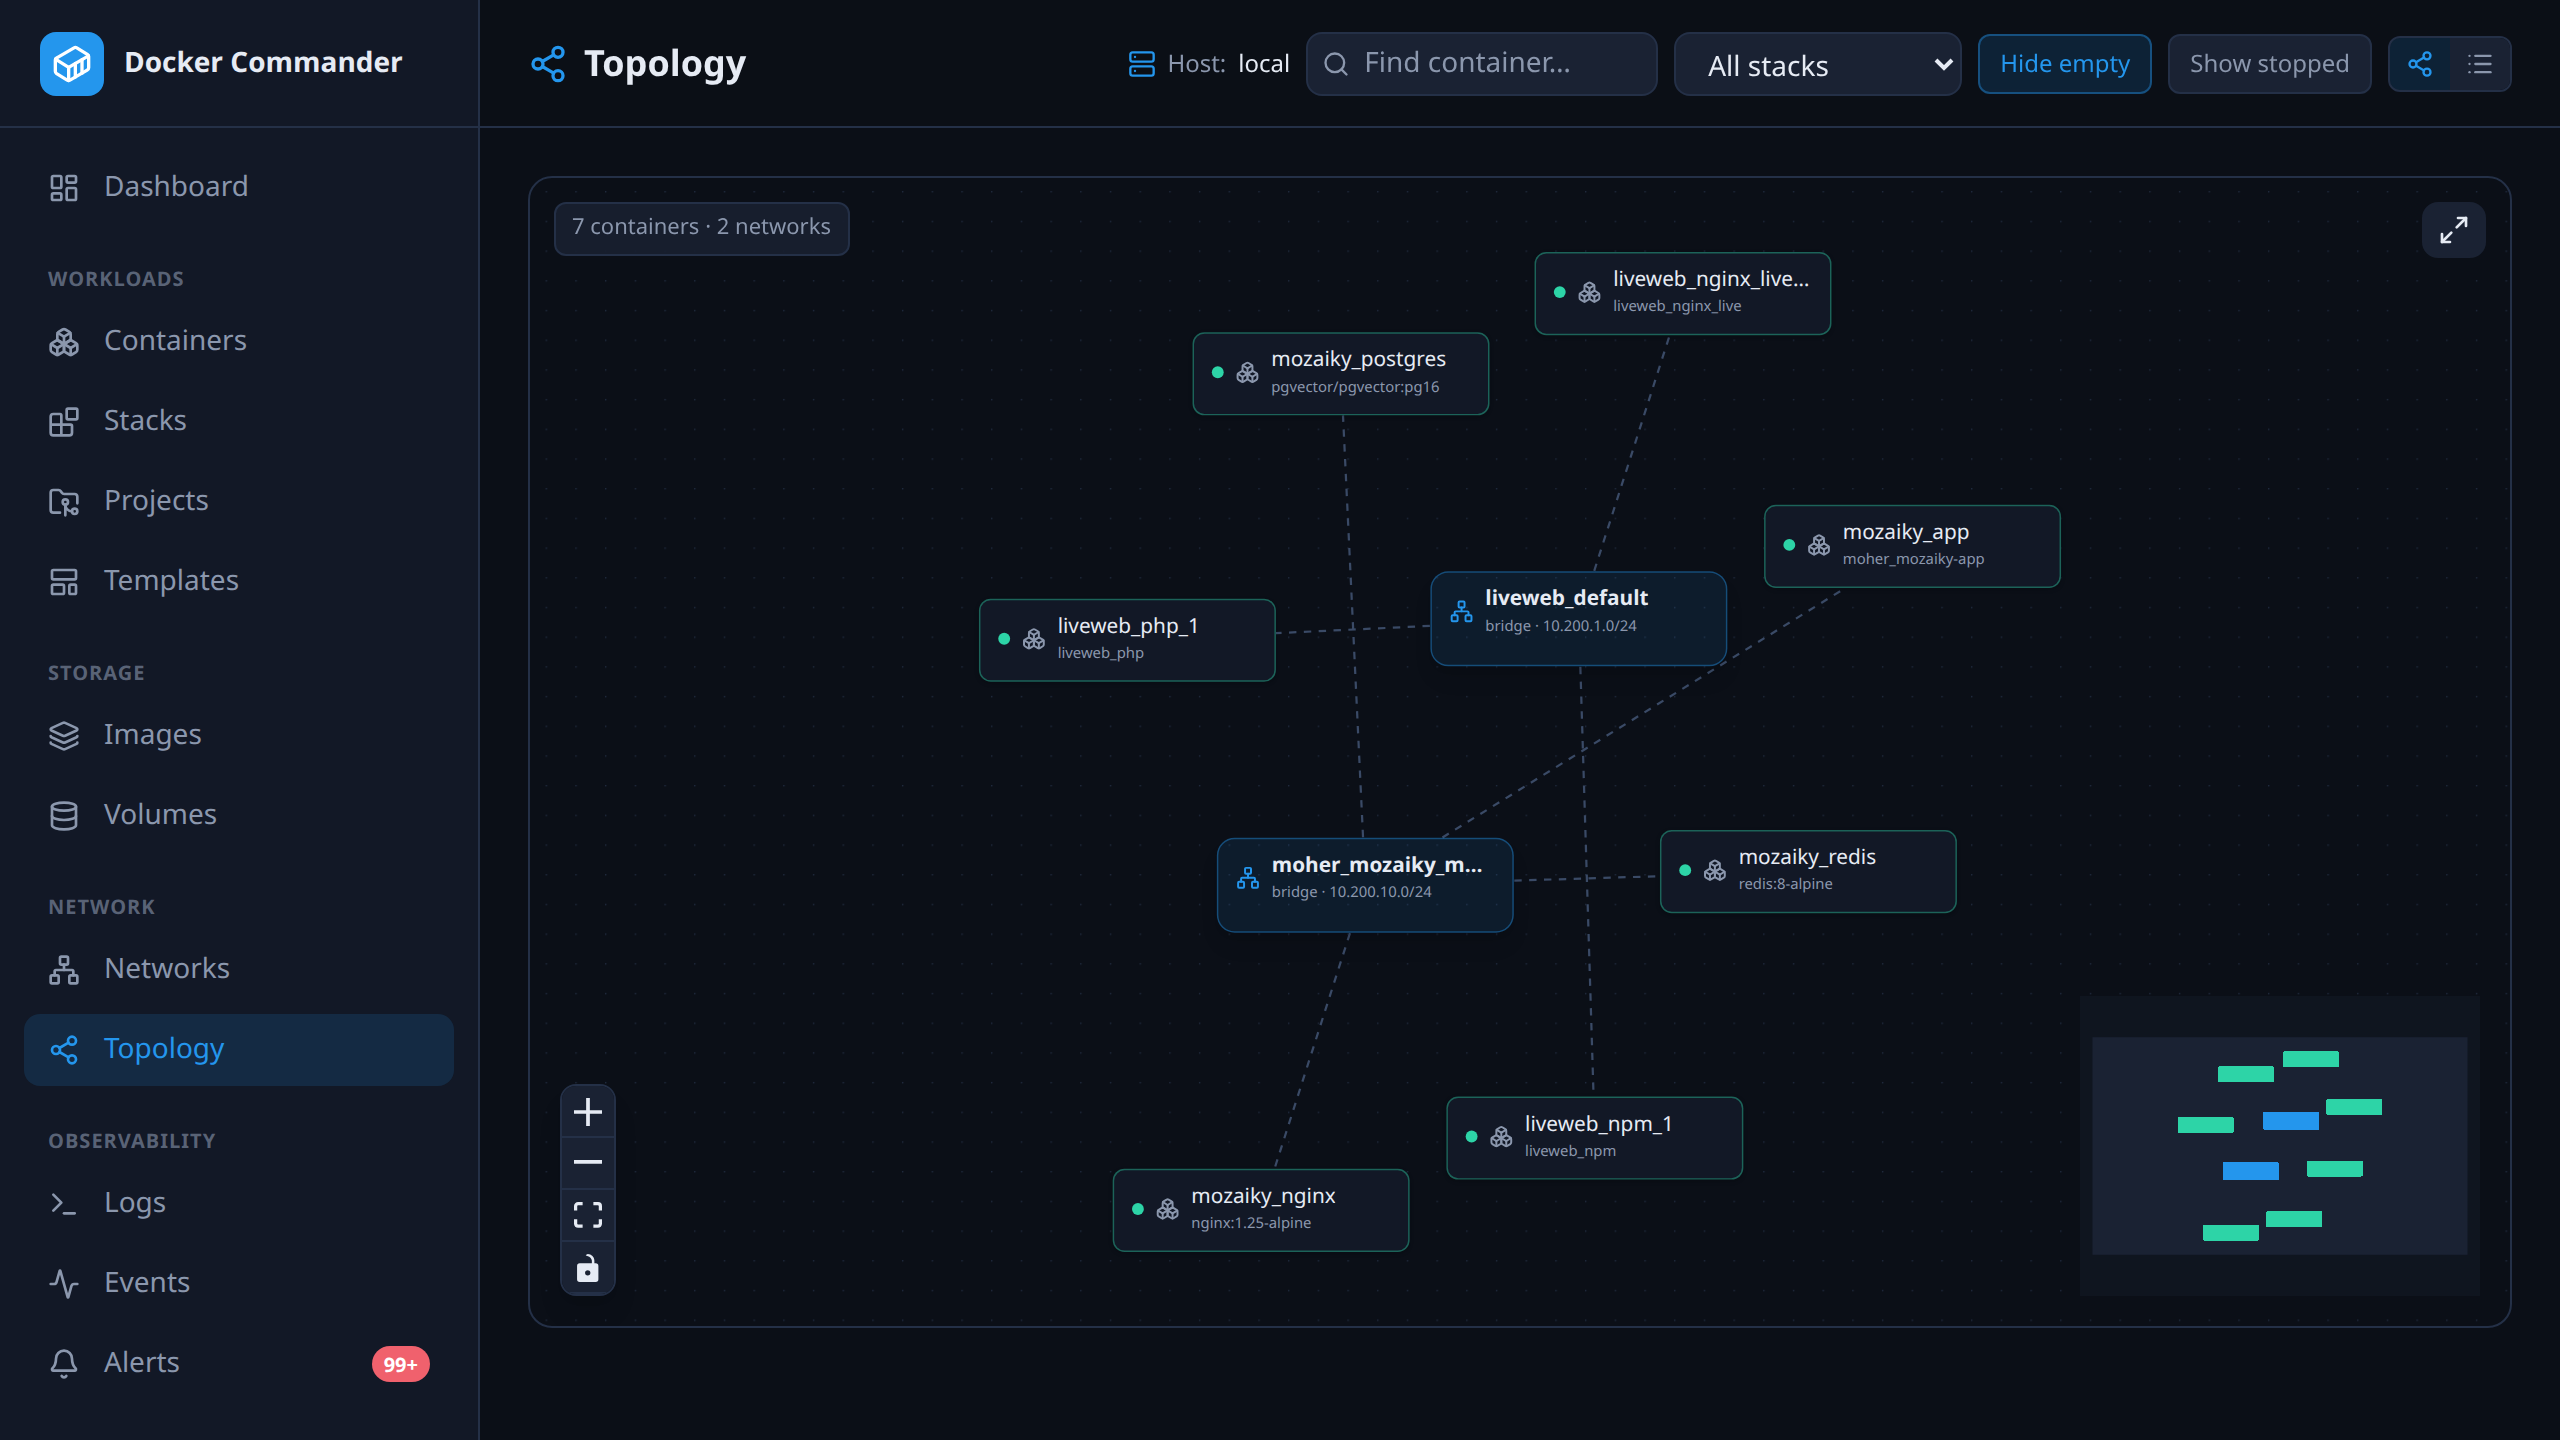
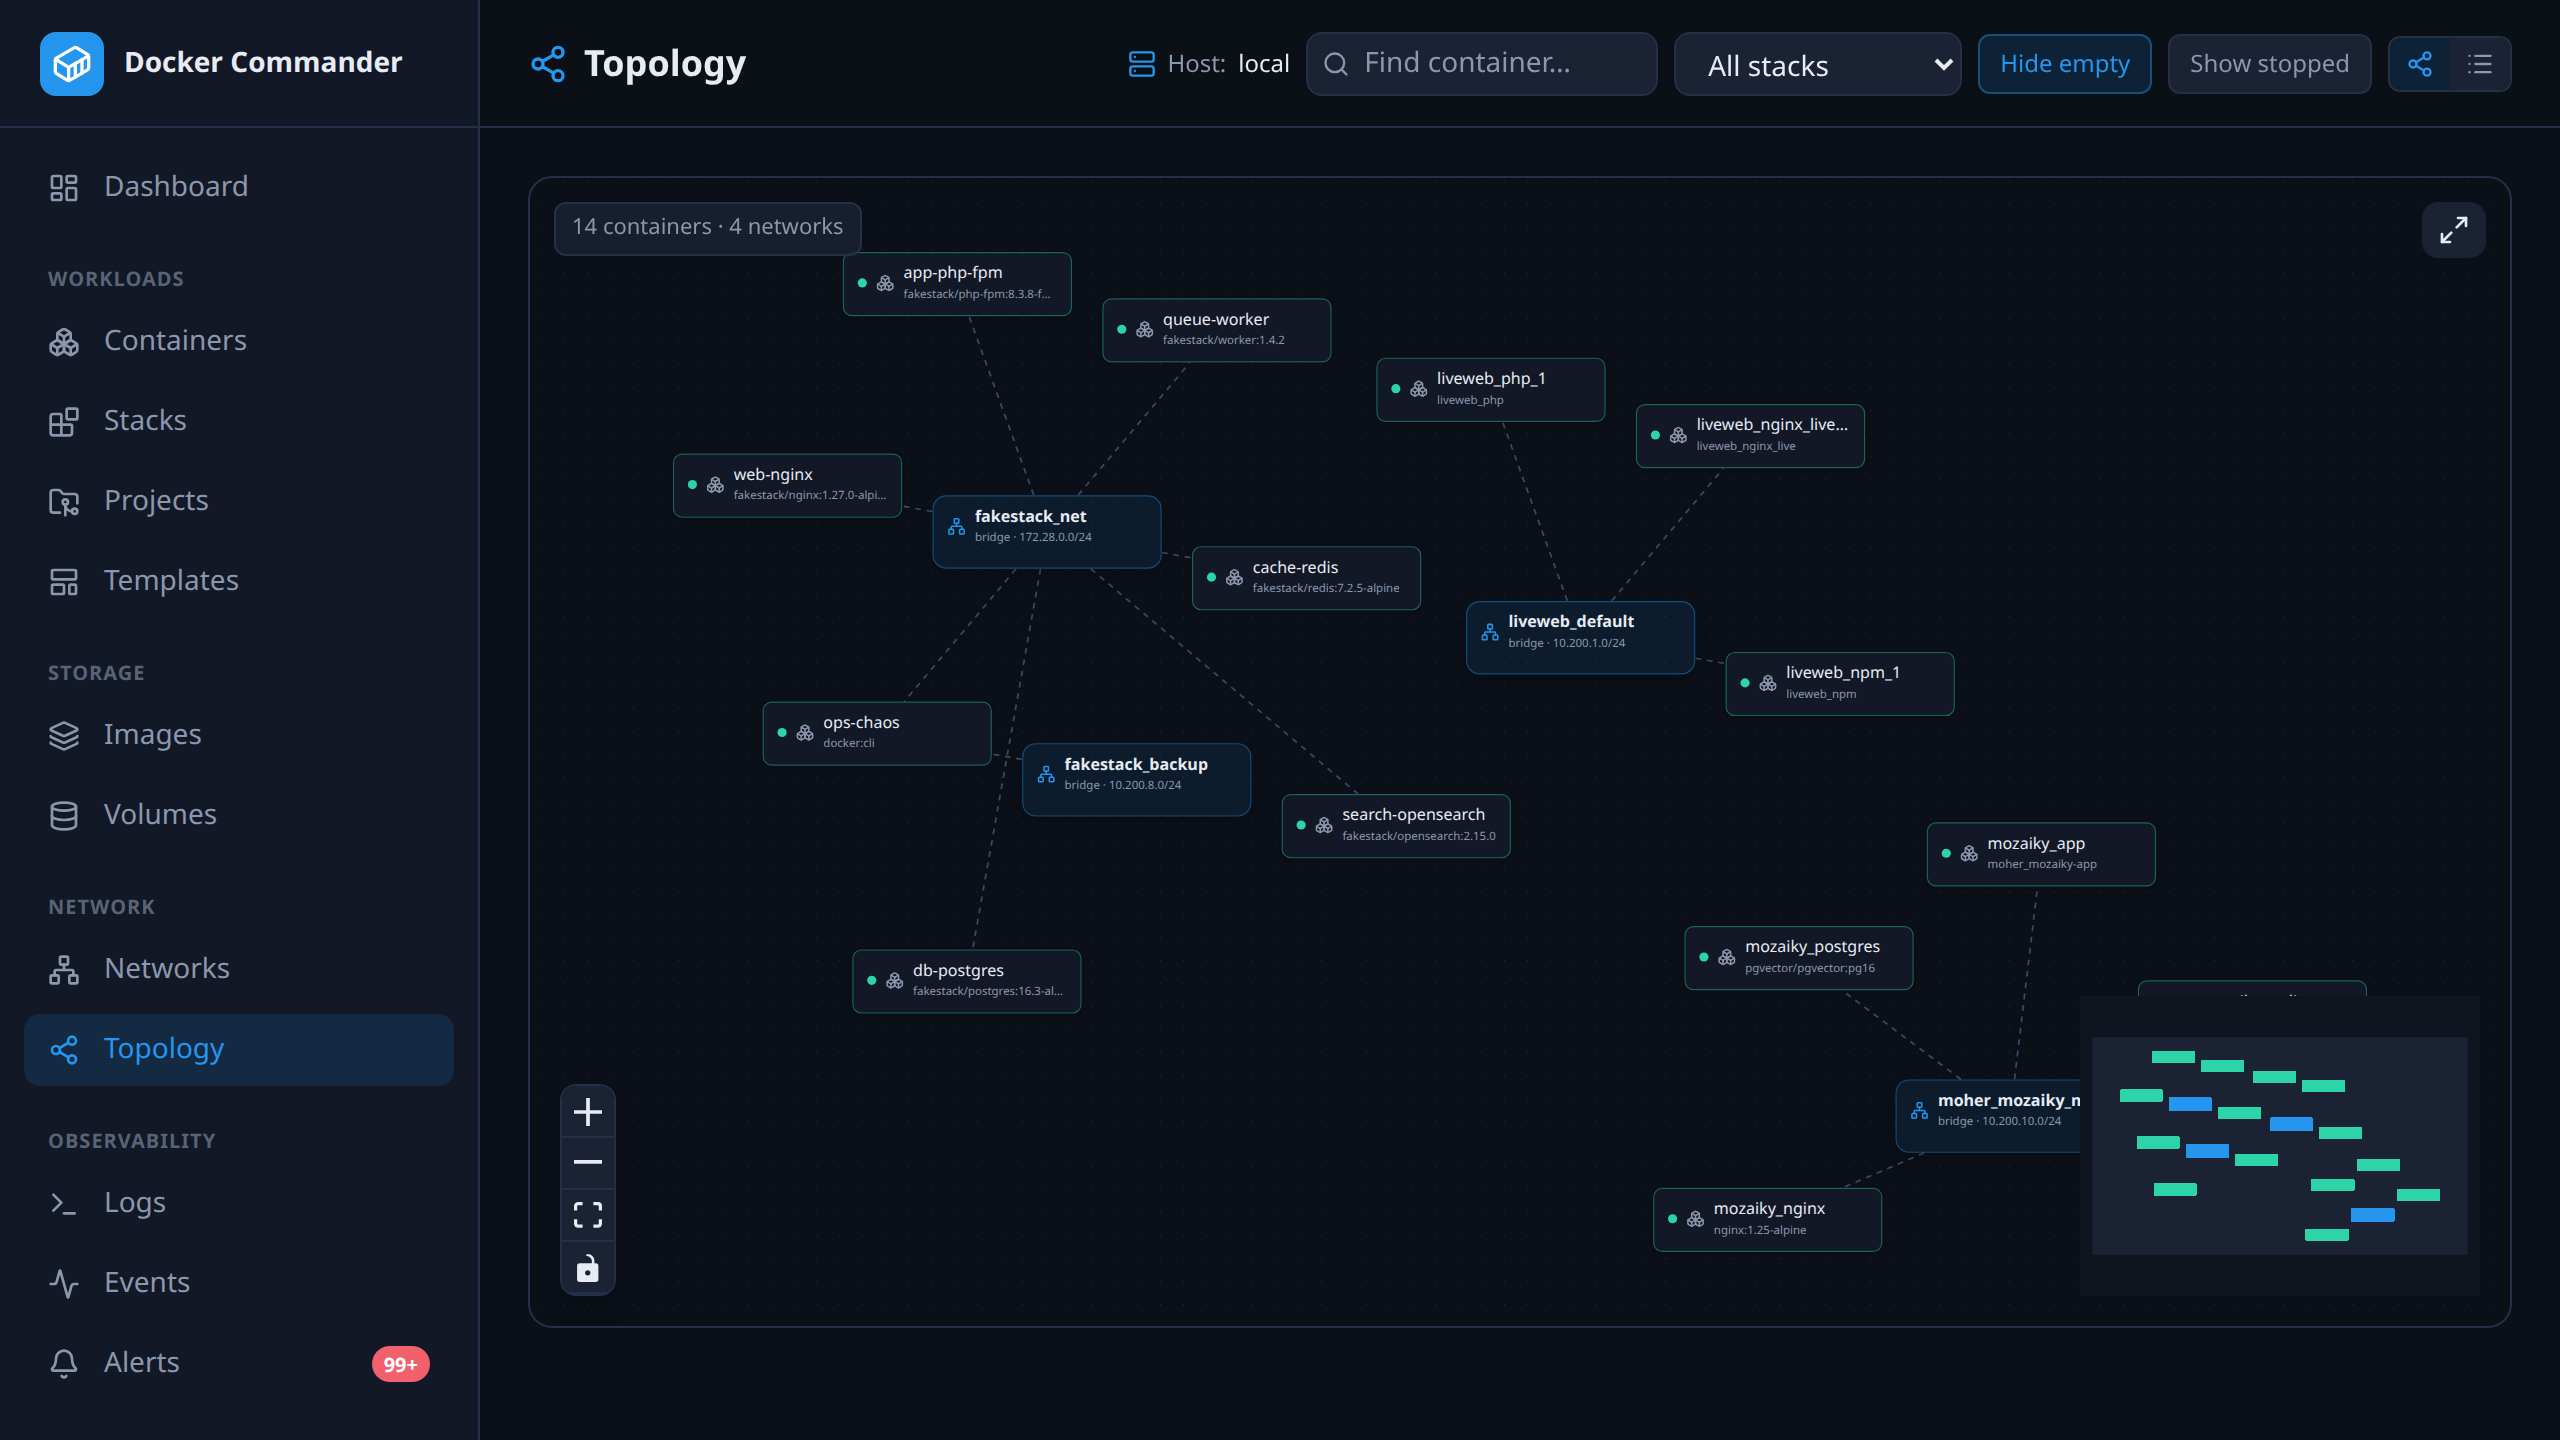
[docs] re-shoot screenshots against a loaded daemon

diff --git a/scripts/screenshots/README.md b/scripts/screenshots/README.md
@@ -36,6 +36,16 @@ From the repo root you can also run `DC_PASS=… node scripts/screenshots/genera
 | `ONLY`        | —                        | Comma list of shot names to (re)generate, e.g. `ONLY=alerts,mcp`. |
 | `HEADED`      | —                        | Set to `1` to watch the run in a visible window.             |
 
+The pictures are only as good as the instance behind them, so these choose what
+they show. Point them at something under real load — an idle daemon photographs
+as flat lines and empty feeds.
+
+| Var              | Default                                | Notes                                                  |
+| ---------------- | -------------------------------------- | ------------------------------------------------------ |
+| `DC_CONTAINER`   | `queue-worker`                         | Container to feature in `container_detail`.            |
+| `DC_LOG_SOURCES` | `app-php-fpm,queue-worker,db-postgres` | Containers to tick in the aggregated Logs view.        |
+| `DC_NETWORK`     | —                                      | Network to open in the detail drawer. Prefer one with several containers attached: the graph view of a single-container network is two boxes and a line. |
+
 ## Notes
 
 - Authentication goes through `/api/auth/login` (and `/api/auth/2fa` when a code
@@ -43,4 +53,15 @@ From the repo root you can also run `DC_PASS=… node scripts/screenshots/genera
 - Detail views without their own route (network detail, project editor) are
   captured by opening the first list row/card. If the UI changes, adjust the
   `prep`/`openFirstRow` selectors in `generate.mjs`.
+- A `prep` that cannot find its control now **fails the shot** instead of
+  photographing the page unchanged. It used to shoot anyway, which is how
+  `network_detail.png` and `network_detail_graph.png` stayed byte-identical: the
+  graph toggle is an icon-only button, the selector matched on text, and the
+  silent miss produced a plausible-looking duplicate nobody re-checked.
+- The alert toast stack is hidden for the duration of a run. On an instance busy
+  enough to be worth photographing, rules fire constantly and three stacked toasts
+  sit on top of whatever the picture is meant to show.
+- Some shots wait before firing (`settle`): the events feed needs time to collect
+  anything, and the dashboard's network tile is a *rate*, so it reads
+  "Collecting…" until a second sample arrives.
 - Shot names map 1:1 to the filenames in `docs/images/`.

diff --git a/CHANGELOG.md b/CHANGELOG.md
@@ -73,6 +73,19 @@ All notable changes to Docker Commander are documented here. The format follows
   factor" stays true.
 
 ### Fixed
+- **The manual's screenshots showed an idle machine, and one of them was a
+  duplicate.** They were re-shot against a daemon under real load, so the pictures
+  now show what the pages are for: a log stream with three colour-coded sources, an
+  events feed with something in it, a network graph with seven containers on it,
+  and CPU history with actual peaks. Three faults in the generator came out in the
+  process. `network_detail.png` and `network_detail_graph.png` had been
+  byte-identical since the file was written — the graph toggle is an icon-only
+  button and the selector matched on text, so the miss went unnoticed and the shot
+  was taken in the unchanged state; a `prep` that cannot find its control now fails
+  the shot instead of photographing the page anyway. Alert toasts covered whatever
+  was underneath on any instance busy enough to be worth photographing, so they are
+  hidden during a run. And the shots that need time — the events feed, the
+  dashboard's network *rate* — now wait for it rather than capturing "Collecting…".
 - **Nothing checked that the committed `web/dist` still matched `web/src`.** CI
   runs `make ui` and then tests the bundle it just built, so a stale committed one
   passes every check green. Binaries cut from a tag rebuild it as well — but
